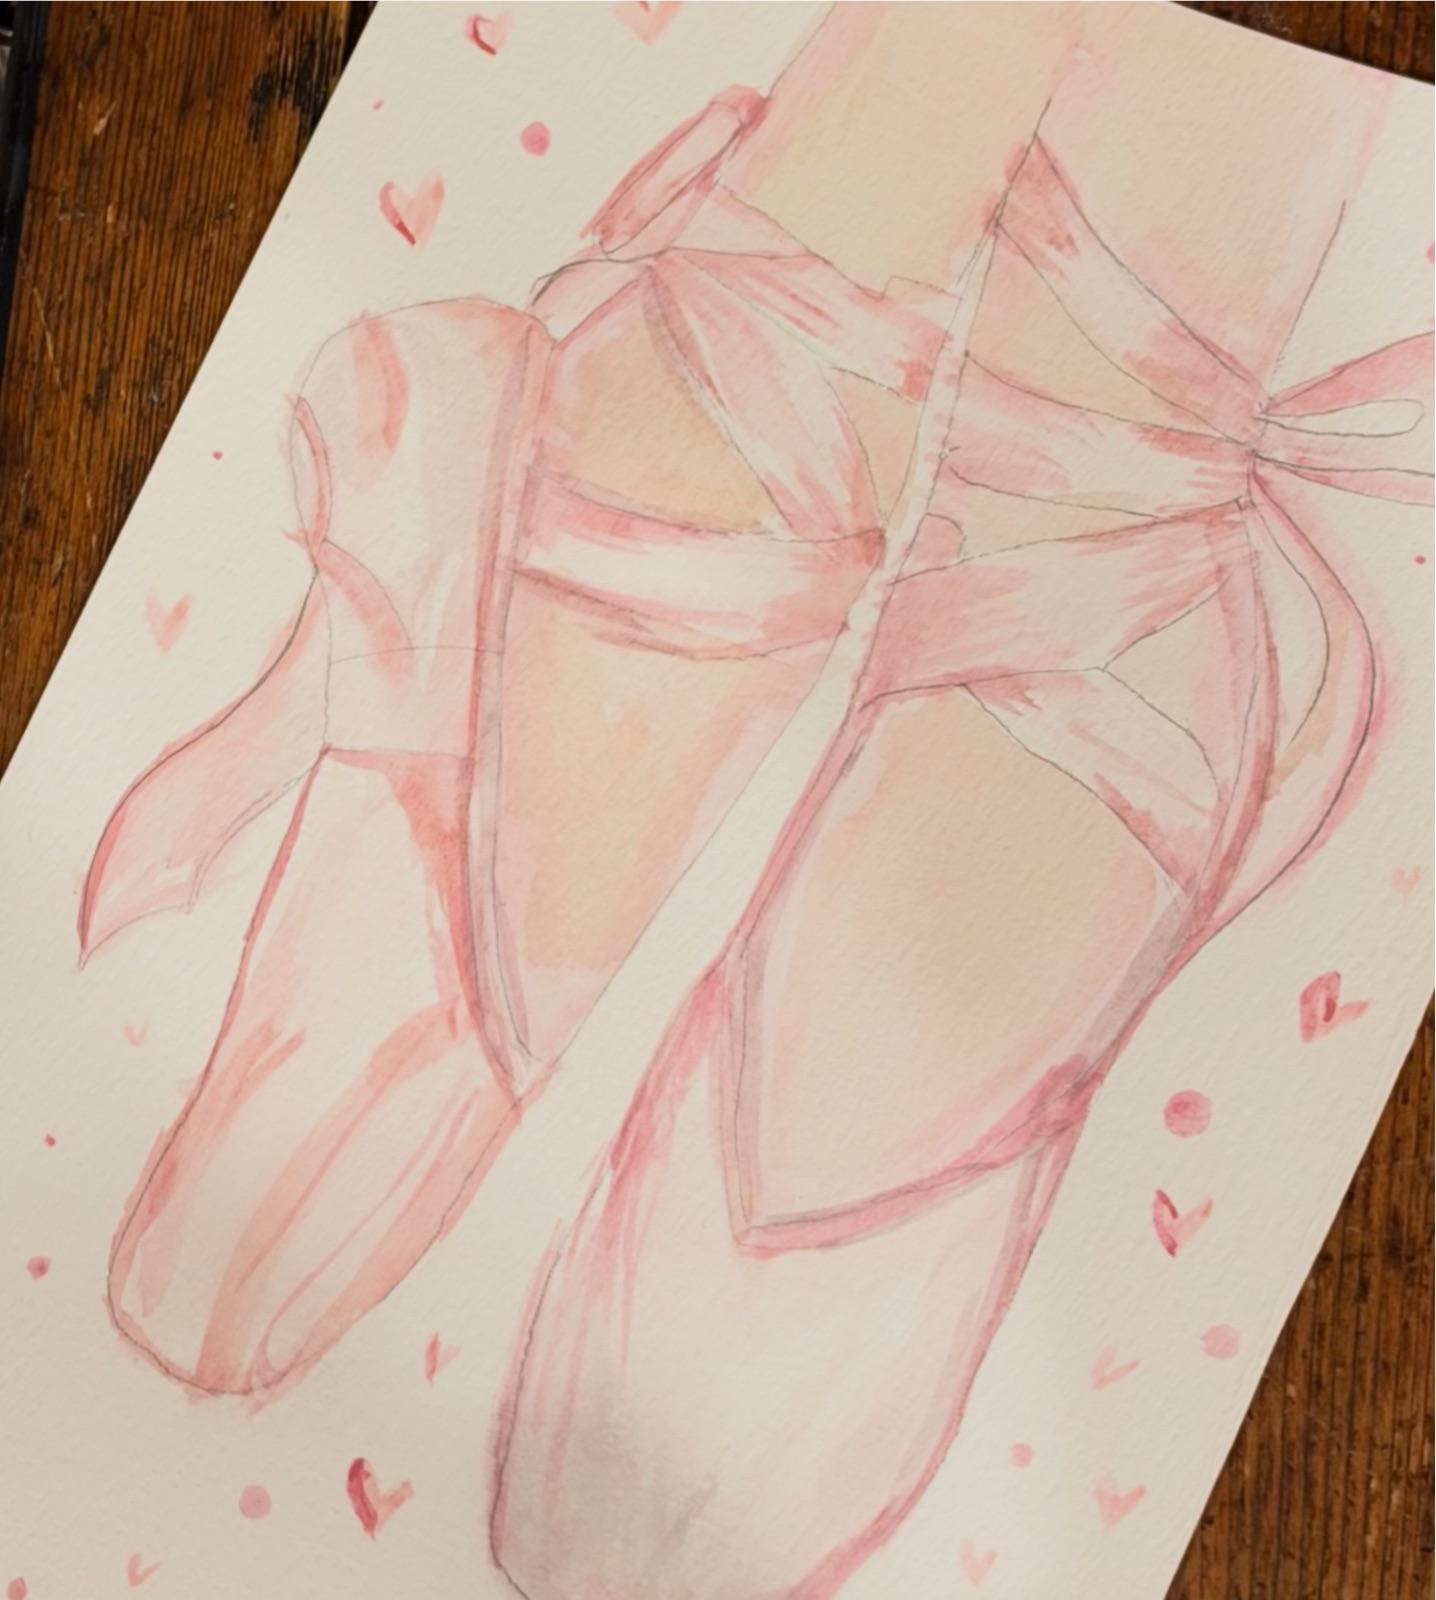
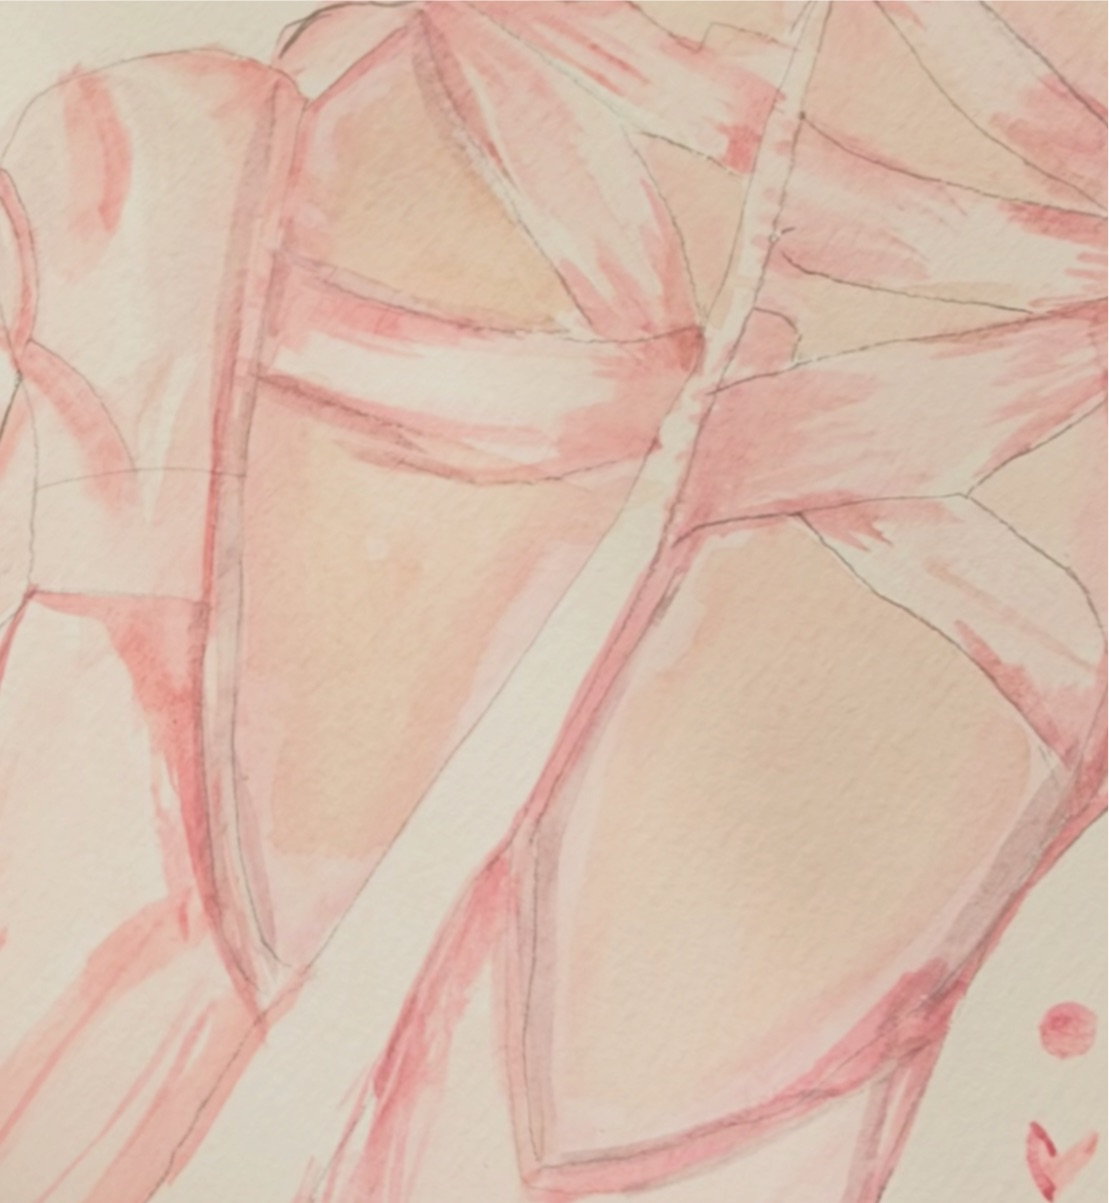
Gallery: rectangular ballet crop, navy and pink frames, no captions

diff --git a/js/app.js b/js/app.js
@@ -557,7 +557,7 @@
   }
 
   // `content` is the enlarged picture's markup; `label` names the dialog.
-  function showLightbox(content, label, caption = "") {
+  function showLightbox(content, label) {
     let dlg = $("#lightbox");
     if (!dlg) {
       dlg = document.createElement("dialog");
@@ -574,7 +574,6 @@
         ${content}
         <span class="watermark" aria-hidden="true">© Priya's Watercolors</span>
       </div>
-      ${caption ? `<p class="lightbox-caption">${esc(caption)}</p>` : ""}
       <form method="dialog"><button class="lightbox-close" aria-label="Close zoomed view">×</button></form>`;
     dlg.showModal();
   }
@@ -899,6 +898,10 @@
       `<img src="${esc(src)}" alt="${esc(workAlt(w))}" loading="lazy" decoding="async" style="object-position:${esc(focus)};${zoom}"></span>`;
   }
 
+  // Navy and pink frames, alternating unless a piece sets `frame`.
+  const frameClass = (w, i) =>
+    `work-frame frame-${w.frame || (i % 2 ? "pink" : "navy")}${w.shape === "round" || w.shape === "oval" ? " work-frame-round" : ""}`;
+
   function renderGalleryWall(root) {
     if (!root) return;
     root.innerHTML = PREVIOUS_WORK.map((w, i) => {
@@ -909,8 +912,7 @@
       return `
       <li class="wall-item" data-size="${size}" style="--top:${nudge.top}px;--side:${nudge.side}px;justify-self:${nudge.align}">
         <button type="button" class="work" data-work="${i}" aria-label="Enlarge ${esc(w.title || (w.src ? "commission photo" : "placeholder"))}">
-          <span class="work-frame${w.shape === "round" || w.shape === "oval" ? " work-frame-round" : ""}">${workArt(w, i)}</span>
-          ${w.title ? `<span class="work-title">${esc(w.title)}</span>` : ""}
+          <span class="${frameClass(w, i)}">${workArt(w, i)}</span>
         </button>
       </li>`;
     }).join("");
@@ -958,7 +960,7 @@
       if (!btn) return;
       const i = Number(btn.dataset.work);
       const w = PREVIOUS_WORK[i];
-      showLightbox(`<span class="work-frame work-frame-large${w.shape === "round" || w.shape === "oval" ? " work-frame-round" : ""}" style="--ratio:${workRatio(w)}">${workArt(w, i)}</span>`, w.title || "Previous work, enlarged", w.title);
+      showLightbox(`<span class="${frameClass(w, i)} work-frame-large" style="--ratio:${workRatio(w)}">${workArt(w, i)}</span>`, w.title || "Previous work, enlarged");
     });
   }
 

diff --git a/css/styles.css b/css/styles.css
@@ -468,7 +468,8 @@ dialog::backdrop { background: rgba(28, 27, 33, 0.82); }
 .work { display: block; width: 100%; padding: 0; border: 0; background: none; cursor: zoom-in; text-align: center; color: inherit; }
 .work-frame {
   display: block; padding: clamp(8px, 7%, 20px);
-  background: var(--mat); box-shadow: 0 0 0 1px var(--line), 0 2px 4px rgba(38, 48, 74, 0.08), 0 12px 26px rgba(38, 48, 74, 0.14);
+  background: var(--mat); border: clamp(5px, 0.6vw, 8px) solid var(--frame, var(--ink));
+  box-shadow: 0 0 0 1px var(--line), 0 2px 4px rgba(38, 48, 74, 0.08), 0 12px 26px rgba(38, 48, 74, 0.14);
   transition: transform 0.2s ease, box-shadow 0.2s ease;
 }
 .work:hover .work-frame { transform: translateY(-2px); box-shadow: 0 0 0 1px var(--line), 0 4px 8px rgba(38, 48, 74, 0.1), 0 18px 34px rgba(38, 48, 74, 0.18); }
@@ -476,9 +477,9 @@ dialog::backdrop { background: rgba(28, 27, 33, 0.82); }
 .work-window { display: block; width: 100%; overflow: hidden; background: #f4efe6; }
 .work-window img { display: block; width: 100%; height: 100%; object-fit: cover; }
 .shape-round .work-window, .work-window.shape-round, .work-window.shape-oval { border-radius: 50%; }
-.work-title { display: block; margin-top: 10px; font-family: var(--display); font-style: italic; font-size: 0.95rem; color: var(--muted); }
+.frame-navy { --frame: var(--ink); }
+.frame-pink { --frame: #e4a0a6; }
 .work-frame-large { width: min(88vw, calc(78vh * var(--ratio))); }
-.lightbox-caption { margin: 10px 0 0; text-align: center; color: #fff; font-family: var(--display); font-style: italic; }
 .pair .mat { display: block; }
 .pair .work-window { box-shadow: var(--shadow-art); }
 

diff --git a/js/data.js b/js/data.js
@@ -180,7 +180,8 @@ const PRINT_DETAILS = {
 //          of a phone photo.
 //   size   optional "lg", "md" or "sm". Left out, sizes rotate so big and
 //          small pieces are spread across the wall.
-//   title  optional caption, shown under the piece and in the enlarged view.
+//   title  optional name, read out by screen readers (no caption is shown).
+//   frame  optional "navy" or "pink". Left out, the frame colors alternate.
 //
 // Photos are Priya's phone shots, cropped and straightened to just the paper
 // (originals are in the pastcommissions/ folder, which isn't published).
@@ -191,7 +192,7 @@ const PREVIOUS_WORK = [
   { src: "images/work/taxi.jpg", title: "Taxi", shape: "landscape", ratio: 953 / 685, size: "sm" },
   { src: "images/work/oldwell.jpg", title: "The Old Well", shape: "portrait", ratio: 1207 / 1600, size: "md" },
   { src: "images/work/gray-house.jpg", title: "Gray house", shape: "landscape", ratio: 1601 / 1179, size: "lg" },
-  { src: "images/work/ballet.jpg", title: "Ballet slippers", shape: "oval", ratio: 0.9, focus: "60% 55%", zoom: 1.15, size: "md" },
+  { src: "images/work/ballet.jpg", title: "Ballet slippers", shape: "portrait", ratio: 1109 / 1203, size: "md" },
   { src: "images/work/birthday-cards.jpg", title: "Birthday cards", shape: "portrait", ratio: 933 / 1109, size: "sm" },
   { src: "images/work/sea-turtle.jpg", title: "Sea turtle", shape: "square", focus: "50% 45%", size: "sm" },
   { src: "images/work/white-house.jpg", title: "Colonial house", shape: "landscape", ratio: 1225 / 942, size: "md" },
